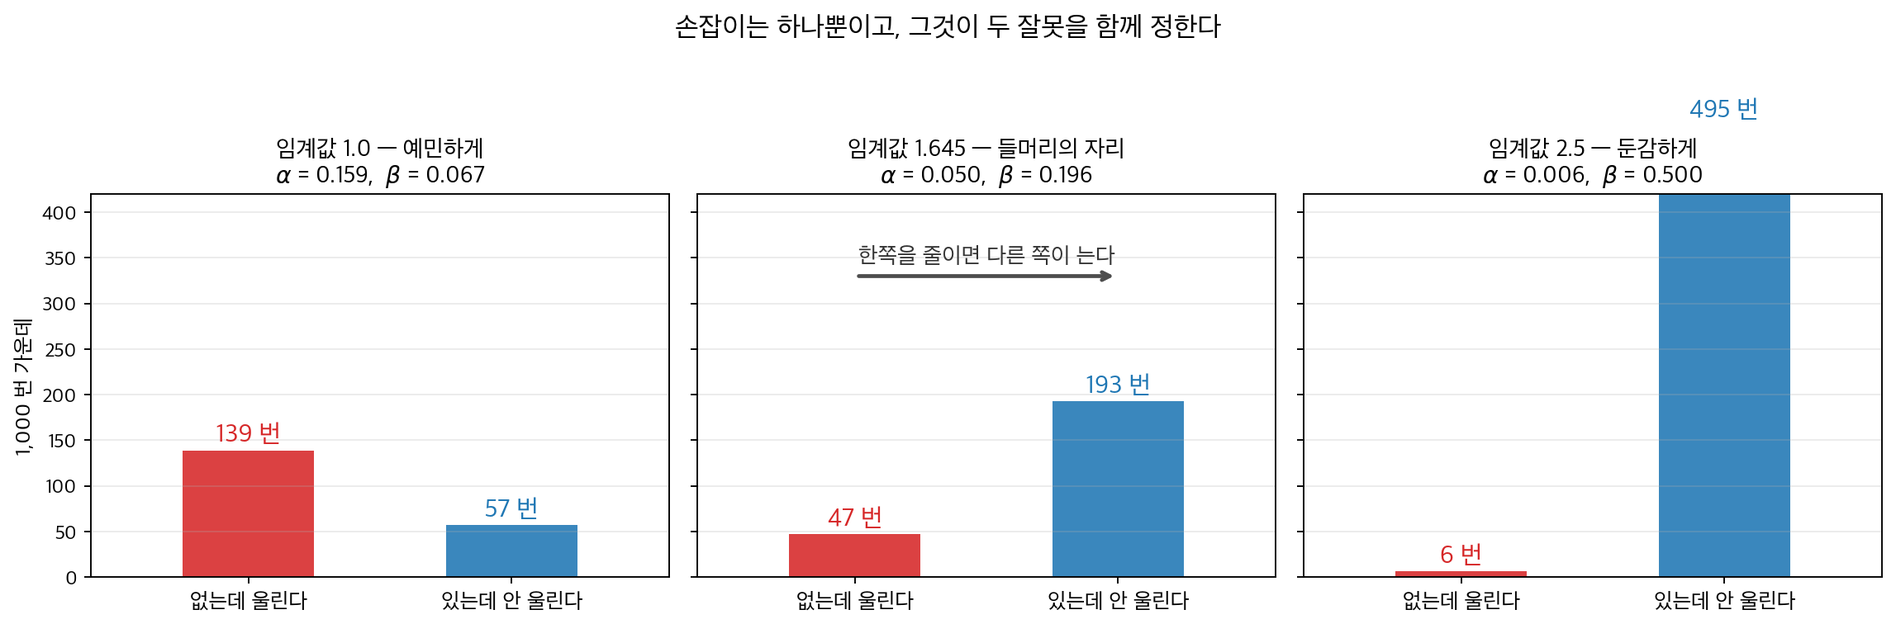
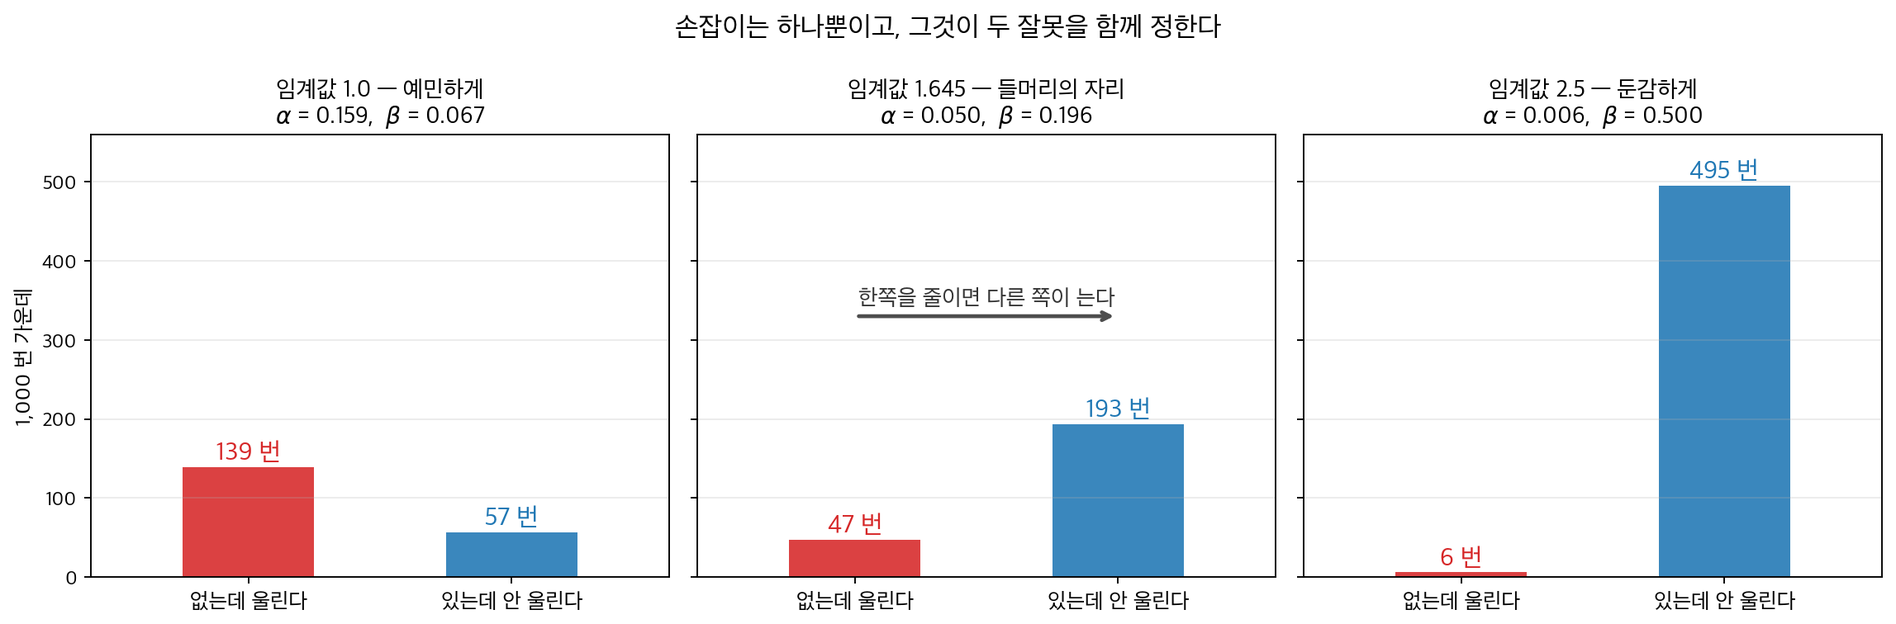
fix(ch09): 보고만 해 두었던 항목을 마무리한다
둘째 정독 패스가 고치지 않고 남긴 항목을 하나씩 판정해 끝냈다. 이미 닫힌 것과 보고가
틀린 것은 건드리지 않았고, 펜스를 고친 쪽은 실제로 돌린 출력을 붙여 verify_outputs 로
맞췄다. 그림을 다시 그린 것은 스크립트와 함께 담았다. 바깥 사실은 확인한 출처로만 고쳤다.

diff --git a/scripts/make_ch09_fisher_vs_np.py b/scripts/make_ch09_fisher_vs_np.py
@@ -52,8 +52,8 @@ ax1.axvline(ALPHA, color="#1f77b4", lw=1.8)
 ax1.text(ALPHA + 0.02, 4.5, f"$p = {ALPHA}$", fontsize=10, color="#1f77b4")
 a = np.mean((p0 >= .04) & (p0 < .05)) * 100
 b = np.mean((p0 >= .05) & (p0 < .06)) * 100
-ax1.annotate(f"$H_0$ 아래에서는 평평하다 —\n$0.04$–$0.05$ 에 들 확률 ${a:.2f}\\%$,\n"
-             f"$0.05$–$0.06$ 에 들 확률 ${b:.2f}\\%$.\n"
+ax1.annotate(f"$H_0$ 아래에서는 평평하다 —\n$0.04$–$0.05$ 에 든 비율 ${a:.2f}\\%$,\n"
+             f"$0.05$–$0.06$ 에 든 비율 ${b:.2f}\\%$.\n"
              "$0.05$ 에 자연의 경계는 없다",
              xy=(0.60, 1.0), xytext=(0.30, 2.1), fontsize=10,
              arrowprops=dict(arrowstyle="->", color="#555555", lw=1.0))

diff --git a/scripts/make_ch09_one_knob_two_errors.py b/scripts/make_ch09_one_knob_two_errors.py
@@ -36,7 +36,7 @@ for ax, (c, name) in zip(axes, CUTS):
                 fontweight="bold", color=col)
     ax.set_xticks([0, 1], ["없는데 울린다", "있는데 안 울린다"], fontsize=11)
     ax.set_xlim(-0.6, 1.6)
-    ax.set_ylim(0, 420)
+    ax.set_ylim(0, 560)  # 둔감한 자리의 놓침 495 가 잘리지 않게
     ax.set_title(f"임계값 {c} — {name}\n"
                  f"$\\alpha$ = {a:.3f},  $\\beta$ = {b:.3f}", fontsize=12)
     ax.grid(axis="y", alpha=0.25)

diff --git a/docs/ch09/multiple_testing/p_hacking_titanic_cutoff.md b/docs/ch09/multiple_testing/p_hacking_titanic_cutoff.md
@@ -10,10 +10,10 @@
 
 <figure markdown>
 ![왼쪽은 자료 한 벌에서 절단점을 15 세부터 65 세까지 모두 시도했을 때의 p 값 곡선으로, 38 세에서 0.0101 로 가장 낮아져 0.05 선 아래로 내려간다. 오른쪽은 같은 조건으로 자료를 3000 번 다시 뽑아 「최적」이라 고른 절단점을 센 히스토그램으로, 15 세부터 65 세까지 거의 고르게 퍼져 있다](img/cutoff_wanders.png){ width="940" }
-  <figcaption markdown>나이와 생존이 **아무 관계가 없는** 자료다. **왼쪽**에서 절단점을 모두 시도하면 $38$ 세에서 $p = 0.0101$ 이 나온다 — 그것만 보고하면 「$38$ 세를 경계로 생존율이 갈린다」는 발견이 된다. **오른쪽**이 그 수의 정체다. 같은 조건으로 자료를 $3{,}000$ 번 다시 뽑아 매번 「최적」을 고르면 그 값이 $15$ 세부터 $65$ 세까지 **거의 고르게** 흩어진다. 자료가 고른 것이 아니라 **그 표본의 잡음이 고른 수**이기 때문이다. 그러면서도 최소 $p$ 가 $0.05$ 아래였던 자료가 $0.4533$ 이다.</figcaption>
+  <figcaption markdown>나이와 생존이 **아무 관계가 없는** 자료다. **왼쪽**에서 절단점을 모두 시도하면 $38$ 세에서 $p = 0.0101$ 이 나온다 — 그것만 보고하면 「$38$ 세를 경계로 생존율이 갈린다」는 발견이 된다. **오른쪽**이 그 수의 정체다. 같은 조건으로 자료를 $3{,}000$ 번 다시 뽑아 매번 「최적」을 고르면 그 값이 $15$ 세부터 $65$ 세까지 **거의 고르게** 흩어진다. 자료가 고른 것이 아니라 **그 표본의 잡음이 고른 수**이기 때문이다. 그러면서도 최소 $p$ 가 $0.05$ 아래였던 자료가 $0.4533$ 이다. 이 그림은 $n = 400$ 명의 합성자료에서 절단점 $51$ 개($15$–$65$ 세)를 훑은 것이라, 실제 타이타닉 자료($n = 714$)에서 절단점 $64$ 개를 훑은 본문의 $0.52$ 와는 설정이 다른 수다.</figcaption>
 </figure>
 
-앞 절 [분석의 자유는 곱해진다](p_hacking_demo.md)에서 본 p-해킹(p-hacking) 수법은 셋이었다. 결과변수를 여러 개 재어 유의한 것만 보고하기, 유의해질 때까지 자료를 더 모으기(임의 중단), 부분집단이나 분석 방법을 골라 쓰기. 모두 **모의자료**였다.
+앞 절 [분석의 자유는 곱해진다](p_hacking_demo.md)에서 본 p-해킹(p-hacking) 수법은 셋이었다. 결과변수를 여러 개 재어 유의한 것만 보고하기, 유의해질 때까지 자료를 더 모으기(임의 중단), 하위집단이나 분석 방법을 골라 쓰기. 모두 **모의자료**였다.
 
 </div>
 
@@ -816,7 +816,7 @@ _확인한 곳 — 논문이 Douglas G. Altman, Berthold Lausen, Willi Sauerbrei
        0.5     0.9911  0.9840      0.9325  0.9120      5.9%      7.3%
     ```
 
-    **$\rho = \sqrt{2/\pi}$가 네 줄을 모두 설명한다.** 예측한 검정력 $0.4100$, $0.7383$, $0.9337$, $0.9911$에 대해 모의값이 $0.3905$, $0.7180$, $0.9140$, $0.9840$이다. 네 줄 모두 예측이 모의값보다 높은데($\beta = 0.2$~$0.4$에서 약 $2$%포인트, $\beta = 0.5$에서 $0.7$%포인트), $\lambda$를 $\beta \approx 0$의 근사로 구했고 반복이 2,000회라 몬테카를로 오차가 $\pm0.011$인 탓이다. 손실의 예측 $31.2\%$, $26.2\%$, $15.5\%$, $5.9\%$가 모의값 $27.3\%$, $26.5\%$, $16.7\%$, $7.3\%$와 같은 모양으로 움직인다.
+    **$\rho = \sqrt{2/\pi}$가 네 줄을 모두 설명한다.** 예측한 검정력 $0.4100$, $0.7383$, $0.9337$, $0.9911$에 대해 모의값이 $0.3905$, $0.7180$, $0.9140$, $0.9840$이다. 네 줄 모두 예측이 모의값보다 높은데($\beta = 0.2$~$0.4$에서 약 $2$%포인트, $\beta = 0.5$에서 $0.7$%포인트), 네 줄이 모두 같은 쪽으로 어긋나므로 몬테카를로 오차(반복 2,000회라 $\pm0.011$)만으로는 설명되지 않는다. 주된 까닭은 $\lambda$를 $\beta \approx 0$의 근사로 구한 데 있고, 몬테카를로 오차는 줄마다 어긋남의 크기를 조금씩 흔들 뿐이다. 손실의 예측 $31.2\%$, $26.2\%$, $15.5\%$, $5.9\%$가 모의값 $27.3\%$, $26.5\%$, $16.7\%$, $7.3\%$와 같은 모양으로 움직인다.
 
     **효과가 작을수록 손실이 크다.** $\beta=0.2$에서 검정력이 0.391에서 0.284로 **27.3% 줄어든다.** 비중심모수는 언제나 같은 비율 $0.798$배로 줄어드는데, 검정력 곡선이 평평해지는 구간(검정력이 1에 가까운 곳)에서는 그 감소가 검정력에 덜 반영되기 때문이다.
 
@@ -881,7 +881,8 @@ _확인한 곳 — 논문이 Douglas G. Altman, Berthold Lausen, Willi Sauerbrei
       순열 임계값(20,000회, alpha=0.05): 9.03  -> 유의
       단, 절단점 7세는 자료에서 고른 것이므로
         이 위치 자체를 결론으로 삼지 않는다.
-      재표본 검사에서 최적 절단점은 2~64세로 흔들린다.
+      생존율 차이로 고르면 80% 부분표본 500회에서 최적 절단점이
+        2세와 64세로 갈린다.
 
       효과크기: 표본을 반으로 나눠 추정한 생존율 차이 0.25
         (같은 자료에서 고르고 재면 0.35 로 과대추정)
@@ -889,6 +890,8 @@ _확인한 곳 — 논문이 Douglas G. Altman, Berthold Lausen, Willi Sauerbrei
       연속형 분석: 나이를 그대로 쓴 로지스틱 회귀에서
         나이 효과는 비단조이며, 이분화는 이 구조를 지운다.
     ```
+
+    부분표본 안정성 줄의 수는 2.2절 [사례 연구: 절단점 하나가 결론을 바꾼다](../../ch02/exploration/titanic_age_cutoff.md) 연습문제 9 의 결과다.
 
     **한 문장으로.** 절단점을 자료에서 골랐다면 **그 사실 자체가 결과의 일부**이므로, 고르는 과정을 숨기지 않고 적는 것이 유일하게 정직한 보고다.
 

diff --git a/docs/ch09/multiple_testing/bonferroni_holm.md b/docs/ch09/multiple_testing/bonferroni_holm.md
@@ -461,9 +461,7 @@ _확인한 곳 — 논문이 Sture Holm 의 「A simple sequentially rejective m
     \frac{\alpha}{m-k+1}\ \ge\ \frac{\alpha}{m}
     $$
 
-    이므로 **모든 단계에서 홀름의 임계값이 더 느슨**하다. 따라서 본페로니가 기각하는 것은 홀름도 기각한다. $\square$
-
-    **엄밀하게는 순차성을 확인해야 한다.** 본페로니가 $H_{(j)}$를 기각하면 $p_{(j)}\le\alpha/m$이고, $k\le j$인 모든 $k$에 대해 $p_{(k)}\le p_{(j)}\le\alpha/m\le\alpha/(m-k+1)$이므로 홀름의 단계가 $j$까지 끊기지 않는다. 따라서 홀름도 기각한다.
+    이므로 **모든 단계에서 홀름의 임계값이 더 느슨**하다. 다만 홀름은 첫 실패에서 멈추므로 **순차성을 확인해야 한다.** 본페로니가 $H_{(j)}$를 기각하면 $p_{(j)}\le\alpha/m$이고, $k\le j$인 모든 $k$에 대해 $p_{(k)}\le p_{(j)}\le\alpha/m\le\alpha/(m-k+1)$이므로 홀름의 단계가 $j$까지 끊기지 않는다. 따라서 본페로니가 기각하는 것은 홀름도 기각한다. $\square$
 
     **FWER 통제의 증명 개요.** 참인 귀무가설의 집합을 $\mathcal I_0$($|\mathcal I_0|=m_0$)라 하고, 그중 가장 작은 $p$ 값을 $p_{\min}$이라 하자. 홀름이 참인 가설을 하나라도 기각했다면, 참인 가설이 **처음으로** 기각된 단계를 $k^*$ 라 하자. 그 가설의 $p$ 값이 $\alpha/(m-k^*+1)$ 이하이고 $p_{\min}$ 은 그보다 크지 않으므로 $p_{\min}\le\alpha/(m-k^*+1)$이다. 그 단계 이전에 기각된 $k^*-1$개는 모두 거짓 귀무가설이므로 $k^*-1\le m-m_0$, 즉 $m-k^*+1\ge m_0$이다. 따라서
 
@@ -512,7 +510,8 @@ _확인한 곳 — 논문이 Sture Holm 의 「A simple sequentially rejective m
         raw = (p < 0.05).any(1).mean()
         bonf = (p < 0.05 / m).any(1).mean()
         thr = 0.05 / (m - np.arange(m))
-        holm = (ps <= thr).any(1).mean()       # 근사(첫 실패까지 보는 대신)
+        # 단계적 하강: 첫 실패에서 멈추므로 앞에서부터 이어진 통과만 기각한다
+        holm = np.cumprod(ps <= thr, axis=1).any(1).mean()
 
         # 최대통계량의 귀무분포를 몬테카를로로 구해 임계값을 잡는 방법
         zz = rng.standard_normal((M, m)) @ L.T
@@ -525,24 +524,24 @@ _확인한 곳 — 논문이 Sture Holm 의 「A simple sequentially rejective m
     ```text
         ρ     무보정 FWER      본페로니 FWER     홀름 FWER       최대통계량 FWER
      0.00       0.3985         0.0492      0.0492           0.0487
-     0.30       0.3548         0.0451      0.0452           0.0501
-     0.60       0.2462         0.0329      0.0330           0.0476
-     0.90       0.1268         0.0169      0.0185           0.0467
-     0.99       0.0693         0.0077      0.0352           0.0495
+     0.30       0.3548         0.0451      0.0451           0.0501
+     0.60       0.2462         0.0329      0.0329           0.0476
+     0.90       0.1268         0.0169      0.0169           0.0467
+     0.99       0.0693         0.0077      0.0077           0.0495
     ```
 
     **상관이 커질수록 본페로니가 보수적이 된다.** $\rho=0.9$에서 0.017, $\rho=0.99$에서 0.008로 명목의 6분의 1이다.
 
     **왜 그런가.** 본페로니는 합집합 한계 $P(\cup A_i)\le\sum P(A_i)$를 쓰는데, 사건들이 **겹칠수록 이 한계가 느슨**해진다. $\rho=1$이면 모든 검정이 같은 사건이라 실제 FWER이 $\alpha/m=0.005$가 된다. 위 표의 $\rho=0.99$ 값 0.0077이 그 극한에 가깝다.
 
-    **최대통계량 방법(순열/부트스트랩(bootstrap))이 정확하다.** 모든 $\rho$에서 0.047~0.050이다. **상관 구조를 자료에서 반영**하기 때문이다. 위 코드의 홀름 값은 첫 실패에서 멈추지 않은 근사라 $\rho$가 매우 클 때 부풀려지는데($\rho=0.99$ 에서 $0.0352$), 정식 홀름은 본페로니와 마찬가지로 보수적이 된다. 모든 귀무가설이 참인 이 설계에서는 정식 홀름의 FWER 이 본페로니와 **똑같다** — 첫 단계의 임계값 $\alpha/m$ 을 통과해야만 무엇이든 기각되기 때문이다.
+    **최대통계량 방법(순열/부트스트랩(bootstrap))이 정확하다.** 모든 $\rho$에서 0.047~0.050이다. **상관 구조를 자료에서 반영**하기 때문이다. 홀름은 본페로니와 마찬가지로 보수적이 된다. 표에서 두 열이 모든 $\rho$ 에서 **똑같은** 것은 우연이 아니다 — 모든 귀무가설이 참인 이 설계에서는 첫 단계의 임계값 $\alpha/m$ 을 통과해야만 무엇이든 기각되므로 홀름의 FWER 이 본페로니와 같다. 첫 실패에서 멈추지 않고 `(ps <= thr).any(1)` 로 세면 이 성질이 깨져 $\rho=0.99$ 에서 $0.035$ 쯤으로 부풀려진다.
 
     **대안들.**
 
     | 방법 | 원리 | 장단점 |
     |---|---|---|
     | **순열 기반 최대통계량** | 귀무분포를 재표본으로 구성 | 정확하지만 계산 무거움. **교환가능성 필요** |
-    | **웨스트폴–영(Westfall–Young) 단계적 하강** | 순열 + 단계적 절차 | 가장 강력한 FWER 방법 |
+    | **웨스트폴–영(Westfall–Young) 단계적 하강** | 순열 + 단계적 절차 | 상관을 반영하므로 본페로니·홀름보다 강력하다 |
     | 다변량 $t$ 분포 | 상관행렬을 모형으로 | 상관을 알아야 함 |
     | 유효 검정 수 | $m_{\text{eff}}<m$을 추정해 나눔 | 근사이지만 간단 |
     | 호크버그·호멜 | 양의 종속 가정 | 계산이 가볍고 개선이 있음 |

diff --git a/docs/ch09/paired_sample_tests/paired_vs_two_sample.md b/docs/ch09/paired_sample_tests/paired_vs_two_sample.md
@@ -6,7 +6,7 @@
 
 **들어가는 이야기** — 자료의 값에는 적혀 있지 않다
 
-**짝인지 아닌지가 자료의 값 어디에도 적혀 있지 않다.** 자료가 두 벌 있다고 하자. 하나는 열 명의 체지방률을 프로그램 전후로 잰 것이고, 하나는 A 부서 $12$ 명과 B 부서 $12$ 명의 급여다. 둘 다 수가 짝으로 맞아떨어지지만 앞은 대응이고 뒤는 이표본이다. 짝인지 아닌지는 자료를 **어떻게 모았는지**에만 적혀 있다. 「이표본」 쪽으로 판정했을 때 쓸 검정은 9.3절 [이표본 t-검정 (스튜던트와 웰치)](../two_sample_tests/t_test_two_means.md)에 있고, 이 쪽은 **어느 쪽인지 가리는 일**만 한다.
+**짝인지 아닌지가 자료의 값 어디에도 적혀 있지 않다.** 자료가 두 벌 있다고 하자. 하나는 열두 명의 체지방률을 프로그램 전후로 잰 것이고, 하나는 A 부서 $12$ 명과 B 부서 $12$ 명의 급여다. 둘 다 수가 짝으로 맞아떨어지지만 앞은 대응이고 뒤는 이표본이다. 짝인지 아닌지는 자료를 **어떻게 모았는지**에만 적혀 있다. 「이표본」 쪽으로 판정했을 때 쓸 검정은 9.3절 [이표본 t-검정 (스튜던트와 웰치)](../two_sample_tests/t_test_two_means.md)에 있고, 이 쪽은 **어느 쪽인지 가리는 일**만 한다.
 
 <figure markdown>
 ![왼쪽 두 칸은 열두 줄짜리 자료표 둘로, 수만 보아서는 어느 쪽이 같은 사람을 두 번 잰 것이고 어느 쪽이 두 부서의 사람들인지 가릴 수 없다. 오른쪽 칸은 네 경우의 검정력 막대로, 짝인 자료를 대응으로 분석하면 95.3 퍼센트인데 풀어서 분석하면 59.9 퍼센트로 떨어지고, 짝 아닌 자료를 묶으면 55.6 에서 52.3 으로 떨어진다](img/design_not_in_values.png){ width="960" }
@@ -377,7 +377,7 @@ $66$ 권 $1$ 호). 그림의 수는 모두 직접 계산한 값이며, 쌍둥이
 
     두 부분이 서로 다른 개체에서 나왔으므로 독립이고, 따라서 이 결합이 타당하다.
 
-    **자유도가 중요하다.** 위 코드에서 새터스웨이트 자유도 대신 정규근사($z$)를 쓰면 수준이 **0.0712**로 부풀어 오른다. 소표본에서 분산을 추정해 가중치로 쓰기 때문이다. $t$ 근사로도 0.0552로 여전히 약간 높으니, 엄밀함이 필요하면 부트스트랩(bootstrap)을 쓴다.
+    **자유도가 중요하다.** 위 코드에서 새터스웨이트 자유도 대신 정규근사($z$)를 쓰면 — `hit_comb` 줄의 `stats.t.sf(..., df)` 를 `stats.norm.sf(...)` 로 바꾸고 같은 시드로 $\delta = 0$ 을 돌리면 — 수준이 **0.0712**로 부풀어 오른다. 소표본에서 분산을 추정해 가중치로 쓰기 때문이다. $t$ 근사로도 0.0552로 여전히 약간 높으니, 엄밀함이 필요하면 부트스트랩(bootstrap)을 쓴다.
 
     **주의 셋.**
 
@@ -837,7 +837,7 @@ $66$ 권 $1$ 호). 그림의 수는 모두 직접 계산한 값이며, 쌍둥이
 
     **유형 1 — 효율 손실형.** 짝짓기 변수가 **노출과 관련**되어 있으면, 짝 내에서 노출이 비슷해져 불일치 짝이 줄어든다.
 
-    8.4절 [비율의 대응 구간 (McNemar)](../../ch08/paired_sample_intervals/ci_paired_proportions.md) $\S 1$ 에서 보았듯 맥니마 검정의 정보는 **불일치 짝**(두 사람의 노출 여부가 서로 다른 짝)**에서만** 나온다. 노출이 비슷한 짝이 많아지면 불일치 짝의 수 $b+c$가 작아져 **검정력이 떨어진다.**
+    8.4절 [비율의 대응 구간 (McNemar)](../../ch08/paired_sample_intervals/ci_paired_proportions.md) $\S 3$ 에서 보았듯 맥니마 검정의 정보는 **불일치 짝**(두 사람의 노출 여부가 서로 다른 짝)**에서만** 나온다. 노출이 비슷한 짝이 많아지면 불일치 짝의 수 $b+c$가 작아져 **검정력이 떨어진다.**
 
     - 예: 흡연과 폐암 연구에서 **거주지역**으로 짝지음. 지역이 흡연율과 관련되면 짝 내 흡연 차이가 줄어든다.
     - **편향은 없지만 표본을 낭비**한다.

diff --git a/docs/ch09/two_sample_tests/z_test_two_proportions.md b/docs/ch09/two_sample_tests/z_test_two_proportions.md
@@ -1708,10 +1708,10 @@ A/B 검정: A는 2000명 중 240명, B는 2000명 중 270명이 전환했다. $\
 
     **자주 하는 실수 다섯.**
 
-    1. **왈드 구간 사용.** 포함률이 0.92까지 떨어진다. 뉴컴을 쓴다.
+    1. **왈드 구간 사용.** 포함률이 0.92까지 떨어진다(연습문제 15 의 표, $p_1=p_2=0.5$·$n=20$ 에서 0.921). 뉴컴을 쓴다.
     2. **상대 지표만 보고.** "위험 2배"는 기저 위험 없이 무의미하다.
     3. **오즈비를 위험비로 읽기.** $p$가 크면 크게 다르다.
-    4. **중간에 계속 확인하며 유의해지면 중단.** 수준이 5배까지 부풀 수 있다.
+    4. **중간에 계속 확인하며 유의해지면 중단.** 수준이 5배 가까이 부풀 수 있다(연습문제 20 의 모의실험에서 20번 엿보면 $0.2382$).
     5. **"$p>0.05$이므로 같다".** 연습문제 1처럼 $p=1$이어도 구간은 넓다.
 
     **한 문장.** **비율 비교는 쉬워 보이지만 근사와 구간에서 함정이 많다.** 도수를 직접 보여주고, 뉴컴 구간을 쓰고, 절대·상대 지표를 함께 보고하면 대부분의 함정을 피할 수 있다.
@@ -1869,7 +1869,7 @@ A/B 검정: A는 2000명 중 240명, B는 2000명 중 270명이 전환했다. $\
 
     **1 — 구간이 로그 척도에서 대칭이므로 원 척도에서는 비대칭**이다. $RR=0.889$의 구간 $(0.756,\ 1.046)$은 중심에서 아래로 0.133, 위로 0.157이다. **$\widehat{RR}\pm z\cdot\text{SE}$처럼 원 척도에서 대칭 구간을 만들면 안 된다.**
 
-    **2 — 셀이 0이면 계산이 불가능**하다. $1/X_1$이 발산한다. 관례적으로 모든 셀에 0.5를 더하는 보정(할데인·앙스콤 보정)을 쓰지만, 이는 근사이고 결과가 보정값에 민감하다. 정확법이 낫다.
+    **2 — 셀이 0이면 계산이 불가능**하다. $1/X_1$이 발산한다. 관례적으로 모든 셀에 0.5를 더하는 보정(할데인–앤스컴 보정)을 쓰지만, 이는 근사이고 결과가 보정값에 민감하다. 정확법이 낫다.
 
     **3 — 검정과 구간이 다른 근사를 쓴다.** 위에서 연습문제 2의 합동 $z$ 검정 $p=0.155$이고 위험차 구간은 0을 포함해 두 판정이 일치하는데, 이 일치는 보장된 것이 아니다. 표본이 커서 두 표준오차가 거의 같았을 뿐이고, 연습문제 9에서 보듯 표본이 작으면 어긋날 수 있다.
 
@@ -2210,7 +2210,7 @@ A/B 검정: A는 2000명 중 240명, B는 2000명 중 270명이 전환했다. $\
     \hat p_1-\hat p_2+z\sqrt{\tfrac{u_1(1-u_1)}{n_1}+\tfrac{l_2(1-l_2)}{n_2}}\Bigr)
     $$
 
-    로 잡는다. **각 끝점에서 가장 불리한 쪽의 분산을 쓴다**는 발상이다.
+    로 잡는다. **각 끝점에서 가장 불리한 쪽의 분산을 쓴다**는 발상이다. 보기 10 의 $\hat p_1-\hat p_2-\sqrt{(\hat p_1-l_1)^2+(u_2-\hat p_2)^2}$ 꼴과 같은 식이다. 윌슨 끝점은 $(\hat p-l)^2 = z^2\,l(1-l)/n$ 을 만족하기 때문이다.
 
     ```python
     import numpy as np

diff --git a/docs/ch09/two_sample_tests/ttest_weed_prices.md b/docs/ch09/two_sample_tests/ttest_weed_prices.md
@@ -9,7 +9,7 @@
 자동화된 분석에 흔히 들어가는 분기가 하나 있다 — 정규성 검정을 돌려 **통과하면 $t$ 검정으로, 아니면 비모수(nonparametric)로** 간다. 사람 손을 덜어 주는 것처럼 보이는데, 그 분기가 무엇을 묻고 있는지 보면 이야기가 달라진다. $t$ 검정이 필요로 하는 것은 표본**평균**이 정규에 가까운가이고 그것은 $n$ 이 커지면 중심극한정리(central limit theorem)가 보장한다. 샤피로–윌크(Shapiro–Wilk) 검정이 묻는 것은 **원자료**가 정규인가이고 그것은 $n$ 이 커지면 더 쉽게 기각된다. **두 물음의 답이 $n$ 을 따라 반대 방향으로 움직인다.** 정규성 검정이 「$t$ 를 쓰지 말라」고 가장 크게 외치는 자리가 정작 $t$ 가 가장 안전한 자리다 — 아래 상자가 그 불일치를 수로 따라간다.
 
 <figure markdown>
-  ![왼쪽은 표본크기에 따른 샤피로–윌크 통과율. 정규 자료는 0.908 에서 0.899 로 평평한데 로그정규 자료는 0.297 에서 0.002, 0.000 으로 급격히 닫힌다. 오른쪽은 같은 자리에서 t 검정의 실제 1종 오류율로, 두 자료 모두 표본크기와 상관없이 명목 0.05 근처에 머문다](./img/pretest_gate.png){ width=940 }
+  ![왼쪽은 표본크기에 따른 샤피로–윌크 통과율. 정규 자료는 0.908 에서 0.899 로 평평한데 로그정규 자료는 0.297 에서 0.002, 0.000 으로 급격히 닫힌다. 오른쪽은 같은 자리에서 t 검정의 실제 1종 오류율로, 로그정규 자료가 n = 10 에서 0.031 로 조금 보수적인 것을 빼면 두 자료 모두 명목 0.05 근처에 머문다](./img/pretest_gate.png){ width=940 }
   <figcaption markdown>**두 패널의 가로축이 같다는 것이 요점이다.** 왼쪽에서 $n = 30$ 부터 로그정규 자료의 통과율이 $0.002$ 로 떨어져 문이 사실상 닫힌다. 그런데 바로 그 자리에서 오른쪽을 보면 $t$ 의 실제 오류율이 $0.048$ 이다 — **문이 막아선 자리가 정작 $t$ 가 가장 안전한 자리였다.** 두 물음이 다르기 때문이다. 샤피로–윌크는 **원자료**가 정규인가를 묻고 그것은 $n$ 이 커질수록 쉽게 기각되는데, $t$ 가 필요로 하는 것은 **표본평균**(sample mean)이 정규에 가까운가이고 그것은 $n$ 이 커질수록 중심극한정리가 보장해 준다. 수는 $\S 1$ 의 모의 결과다.</figcaption>
 </figure>
 
@@ -593,7 +593,7 @@ $$
 
     # 2014년 도수를 2015년 총합에 맞춰 축척한다.
     # chisquare는 sum(E) == sum(O)를 요구하며, 이 줄을 빠뜨리면
-    # "총합이 다르다"는 사실이 통계량에 섞여 들어가 무의미한 값이 나온다.
+    # scipy 가 "총합이 다르다"는 오류를 내고 멈춘다.
     expected_2015 = counts_2014 / counts_2014.sum() * observed_2015.sum()
 
     chi2, p_chi = stats.chisquare(observed_2015, f_exp=expected_2015)

diff --git a/docs/ch09/errors_and_power/errors.md b/docs/ch09/errors_and_power/errors.md
@@ -12,7 +12,7 @@
 
 <figure markdown>
 ![임계값을 1.0 과 1.645 와 2.5 에 두었을 때 1000 번 가운데 오경보 수와 놓침 수를 막대로 그린 세 칸. 예민하게 두면 오경보가 139 번이고 놓침이 57 번, 둔감하게 두면 오경보가 6 번이고 놓침이 495 번이다](img/one_knob_two_errors.png){ width="960" }
-  <figcaption markdown>같은 장치를 $1{,}000$ 번 돌리고 손잡이만 세 자리에 두었다. **예민하게** 두면 오경보가 $139$ 번으로 늘고 놓침이 $57$ 번으로 줄며, **둔감하게** 두면 오경보가 $6$ 번으로 줄고 놓침이 $495$ 번으로 는다. 가운데가 들머리의 자리다 — $(\alpha,\ \beta) = (0.050,\ 0.196)$. 손잡이가 하나뿐이므로 **두 막대를 함께 낮출 길이 없다.**</figcaption>
+  <figcaption markdown>같은 장치를 아무 일 없는 밤 $1{,}000$ 번과 일이 있는 밤 $1{,}000$ 번에 돌리고 손잡이만 세 자리에 두었다. 막대는 한 번 돌린 모의실험의 개수라 이론값($\alpha = 0.159$ 이면 $159$ 번)에서 조금 벗어난다. **예민하게** 두면 오경보가 $139$ 번으로 늘고 놓침이 $57$ 번으로 줄며, **둔감하게** 두면 오경보가 $6$ 번으로 줄고 놓침이 $495$ 번으로 는다. 가운데가 들머리의 자리다 — $(\alpha,\ \beta) = (0.050,\ 0.196)$. 손잡이가 하나뿐이므로 **두 막대를 함께 낮출 길이 없다.**</figcaption>
 </figure>
 
 그러면 그 곡선 **어디에** 설 것인가. 통계학 바깥에서 가져와야 하는 것이 둘 있다 — 두 잘못의 **대가**, 그리고 그 일이 애초에 일어날 **빈도**다. 둘을 넣고 풀면 임계값이 닫힌 꼴로 나오는데, 답이 사람들의 짐작과 사뭇 다르다. 그 셈과, 손잡이를 돌린 사람이 실제로 있었던 어느 밤은 아래 상자가 따라간다. 여기서 먼저 짚을 것은 이것이다 — **대가를 적어 두지 않아도 임계값을 고르는 순간 대가에 관한 가정이 들어간다.** 이 쪽이 두 오류를 정의하고 둘 사이의 트레이드오프(trade-off)를 그린다.
@@ -595,7 +595,7 @@ $\mu_0 = 0$, $\mu_1 = 3$, $\alpha = 0.05$일 때 이렇게 된다.
     \text{FDR}=\frac{\alpha\pi_0}{\alpha\pi_0+(1-\beta)(1-\pi_0)}
     $$
 
-    여기서 $\pi_0$는 검정된 가설 중 $H_0$이 참인 비율이다.
+    여기서 $\pi_0$는 검정된 가설 중 $H_0$이 참인 비율이다. 엄밀히 이 사후확률은 9.7절 [거짓발견율](../multiple_testing/fdr.md)이 통제하는 기대 비율 $E[V/\max(R,1)]$ 과 정의가 다르다. 가설이 $\pi_0$ 의 비율로 섞인 이 모형에서는 스토리의 양의 거짓발견율(positive FDR)과 정확히 같고, 가설이 많으면 기대 비율도 이 값에 가까워진다.
 
     ```python
     import numpy as np
